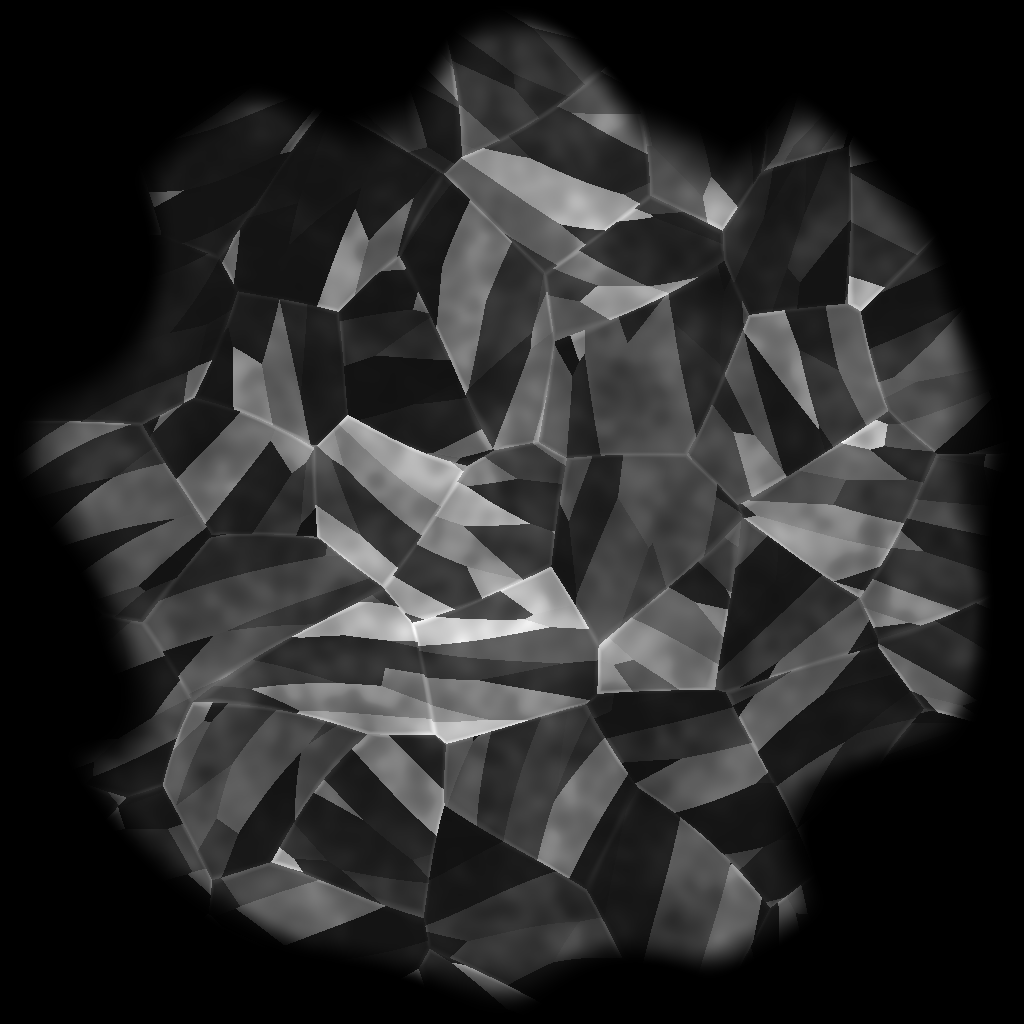
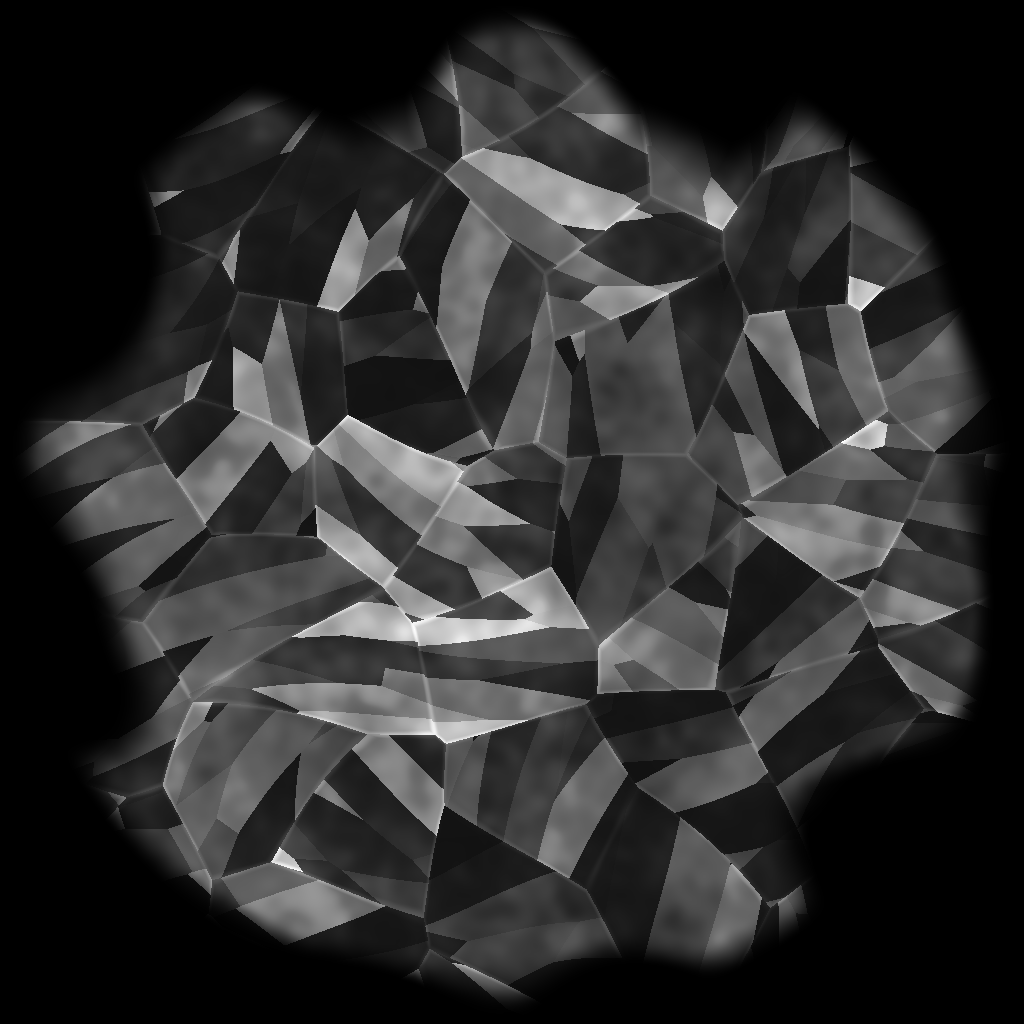
Remove stroke-width splotches from the tonal families: near-rigid mask train
The tonal value curve assumes every point sees exactly n stamps; dual
scatter 0.7 randomized that count (2..6), so the composite tone
(depth*damage)^(n/nbar) wandered at exactly stamp scale - dark/light
discs the width of the stroke, and light levels randomly erased to
wisps (the depth dial itself was broken: 30-level strokes measured
tone 0.19-0.21, out of order with 55/80).

The fix, per family:
- dual scatter 0.7 -> 0.2 on all five tonal families: the per-point
  stamp count is deterministic again. Stamp-scale ripple fell from
  4-20% to <= 3% of tone, and mean stroke tone now lands on the design
  (1 - depth/2 for modulate) within a few percent at every level.
- spec.highpassK 1.4 on hammered/wood-domains/leather: field content
  coarser than the stamp tinted whole stamp footprints under mirror
  flips; the high-pass zeroes that term (fractal-tip hoists the
  faults generator's inline high-pass into a shared helper).
- tonal masks now skip the 1/H spectral pre-compensation (S_TIP = 0):
  a near-rigid train transfers the tip spectrum directly, and dividing
  by H would pump 27x power into the splotch band at scatter 0.2.
- scratched-metal dual spacing 0.28 -> 0.14: its flat ground exposed
  the residual count staircase (5x comb at the train frequency);
  doubling the overlap halves the staircase and its hairlines survive
  the deeper averaging.

spectrum-audit grows two absolute stroke-domain measures - ripple %
[…]

diff --git a/docs/fractal-texture-math.md b/docs/fractal-texture-math.md
@@ -367,27 +367,63 @@ intact material, with `depth` the contrast dial. Getting that match takes
 two separate deconvolutions, and it is worth being precise about which
 kernel each one undoes:
 
-* **Second moment (spectrum):** the `1/H` division of §3 undoes the
-  scatter kernel's variance filtering. It applies fully to spectral
-  fields, but for the structural generators it only shapes their *fbm
-  component* — Worley cells, scratch strokes, fault steps and vein ridges
-  are laid in the spatial domain and are not spectrally pre-compensated.
 * **First moment (value curve):** the mask buffer over-composites, so
   `n̄ ≈ c̄/Δ_dual` overlapping stamps accumulate `m = 1 − Π(1 − v)`. To
   land the accumulated mask on a target `1 − depth·damage(x)`, each stamp
   must carry `v = 1 − (depth·damage)^(1/n̄)` — without this inverse, mid
   tones compress toward white and the painted texture is flatter than the
   design.
+* **Second moment (spectrum):** *exempt.* The `1/H` division of §3 undoes
+  scatter smearing in a train that relies on scatter to decorrelate — a
+  print's union. A tonal train is kept **near-rigid** (below), so the
+  stroke window reproduces the tip spectrum directly, the value curve is
+  the whole deconvolution, and `fractal-tip` sets `H ≡ 1` for
+  `maskMode: "tonal"`. Dividing by `H` anyway would pump `1/H → 27×`
+  power into the modes a rigid train no longer smears (`k ≲ 1.5 c/dia` at
+  scatter 0.2) — which is precisely the splotch band.
 
-Two approximations remain, both benign at the shipped trains and checked
-by the stroke-window comparison rather than assumed: overlapping stamps
-sample the SAME bitmap at small offsets, so the union is correlated (the
-value inverse treats it as exact re-stamping, which it nearly is at
-`S ≈ 0.35·d_dual`); and the scatter offsets smear the tonal field by the
-scatter marginal — visible as a soft burnish mottle, not as lost
-structure. A tonal `delta` mapping can be inverted (`invert: true`) so
-the structure keeps full paint and the ground carves: scratches as darker
-gouges in a mid-tone material rather than pale lines in a solid one.
+**The near-rigid train.** The value inverse assumes every point sees
+exactly `n̄` stamps. Anything that randomizes the *count* `n(x)` makes the
+accumulated tone `(depth·damage)^(n/n̄)` wander — and since `n` decorrelates
+over one stamp footprint, the wander arrives as dark/light discs at
+exactly stroke width, the most conspicuous scale a stroke owns. Three
+sources, three rules:
+
+1. **Count variance from scatter.** At `scatter 0.7` the per-point count
+   ranged ~2–6 (`n/n̄` from 0.7 to 2), which both splotched the tone and
+   broke the depth dial itself (light levels randomly erased to wisps).
+   Keep the absolute scatter well under the stamp radius —
+   `scatter 0.2` (S = 0.1·d_dual) makes `n(x)` deterministic; measured
+   stamp-scale ripple fell from 4–20% to ≤ 3% of tone, and mean stroke
+   tone landed on the design (`1 − depth/2` for `modulate`) within a few
+   percent.
+2. **Per-stamp tint.** Field content coarser than the stamp makes each
+   stamp tint its whole footprint, and mirror flips re-randomize the sign
+   at every overlap. High-pass the field above ~1.4 c/dia
+   (`spec.highpassK`; the faults generator already does this internally) —
+   the texture band is untouched, the tint term is identically zero.
+3. **The count staircase.** Even a rigid train has a *deterministic*
+   residue: `n(x)` steps between ⌊n̄⌋ and ⌈n̄⌉ with period `Δ_dual`, so the
+   tone carries a comb line at `1/Δ_dual` with peak-to-peak amplitude
+   `≈ tone·|ln tone|/n̄` — a few percent, growing with depth. The audit's
+   `comb p-p %` reads it directly. The one lever that shrinks it is
+   overlap: halving the spacing halves the line (`∝ 1/n̄`), but averages
+   one more independent window into every point and softens texture
+   contrast by `√n̄` — a taste trade, decided per family (scratched-metal,
+   whose flat ground hides nothing and whose hairlines survive averaging,
+   ships at spacing 0.14; the cellular families keep 0.28 and a subtle
+   line). The principled endgame, if a family ever needs both, is an
+   envelope whose translates sum to a constant (a COLA/Hann-style radial
+   taper in the vignette, hop = half the envelope width) — that cancels
+   the staircase identically instead of dividing it.
+
+One approximation remains, checked by the stroke-window comparison rather
+than assumed: overlapping stamps sample the same bitmap under mirror
+flips, so the accumulation is correlated rather than i.i.d.; at the
+shipped trains the window still reads as the designed field. A tonal
+`delta` mapping can be inverted (`invert: true`) so the structure keeps
+full paint and the ground carves: scratches as darker gouges in a
+mid-tone material rather than pale lines in a solid one.
 
 Then calibrate `q` per level against painted strokes (§4). The result ships as a
 plain grayscale PNG under `tips` in the brush document — the engine treats it
@@ -408,6 +444,8 @@ crops and a log-power image of the spectrum for the eye.
 | isotropy | audit `aniso dB` — sector power spread over the texture band | ≲ 4 dB |
 | spectrum | audit `beta` — radial log-log slope over 2–30 c/dia | smooth curve, no bumps; β rises with coverage (sparse prints are legitimately whiter) |
 | coverage | calibration `core` (§4) | target ± 0.02 |
+| splotch | audit `ripple %` — std/mean of the stroke's core-band tone profile smoothed at the mask-stamp diameter (§6's count-variance discs; §3's beading, measured on the mark) | tonal ≲ 3%; prints judged against the §3 `√(H/n̄)` budget |
+| train residue | audit `comb p-p %` — strongest periodic line in the stroke profile over 2–24 c/dia, in excess of its spectral neighbourhood, as p-p percent of tone | ≲ 5%, at any frequency; §6's staircase law says what a lower number costs |
 | breaks | `measure` → `worstGap` | < 0.5 dia (levels ≥ 30%; below that the gaps *are* the design) |
 | ghosts | autocorrelation of the stroke alpha | no secondary peak beyond the texture's own correlation length |
 
@@ -424,6 +462,12 @@ Two readings need interpretation before they are believed:
 * The fx≈0 / fy≈0 axis ridges in the 2-D spectrum are the stroke's and the
   fill's own macro-structure (a row is coherent along its length). They are
   excluded from spike detection and reported separately.
+* `spike ×`, `comb ×` and `aniso dB` are *floor-relative*: on a near-flat
+  tonal mark (a light-damage level is mostly intact paint) the broadband
+  floor collapses and they explode over structure no viewer can see —
+  a 20× spike that measures 0.4% of tone in the stroke, below one 8-bit
+  gray step. For tonal families, believe the absolute stroke-domain
+  numbers (`ripple %`, `comb p-p %`) over the floor-relative ones.
 
 ## 8. Design procedure for a coverage family
 
